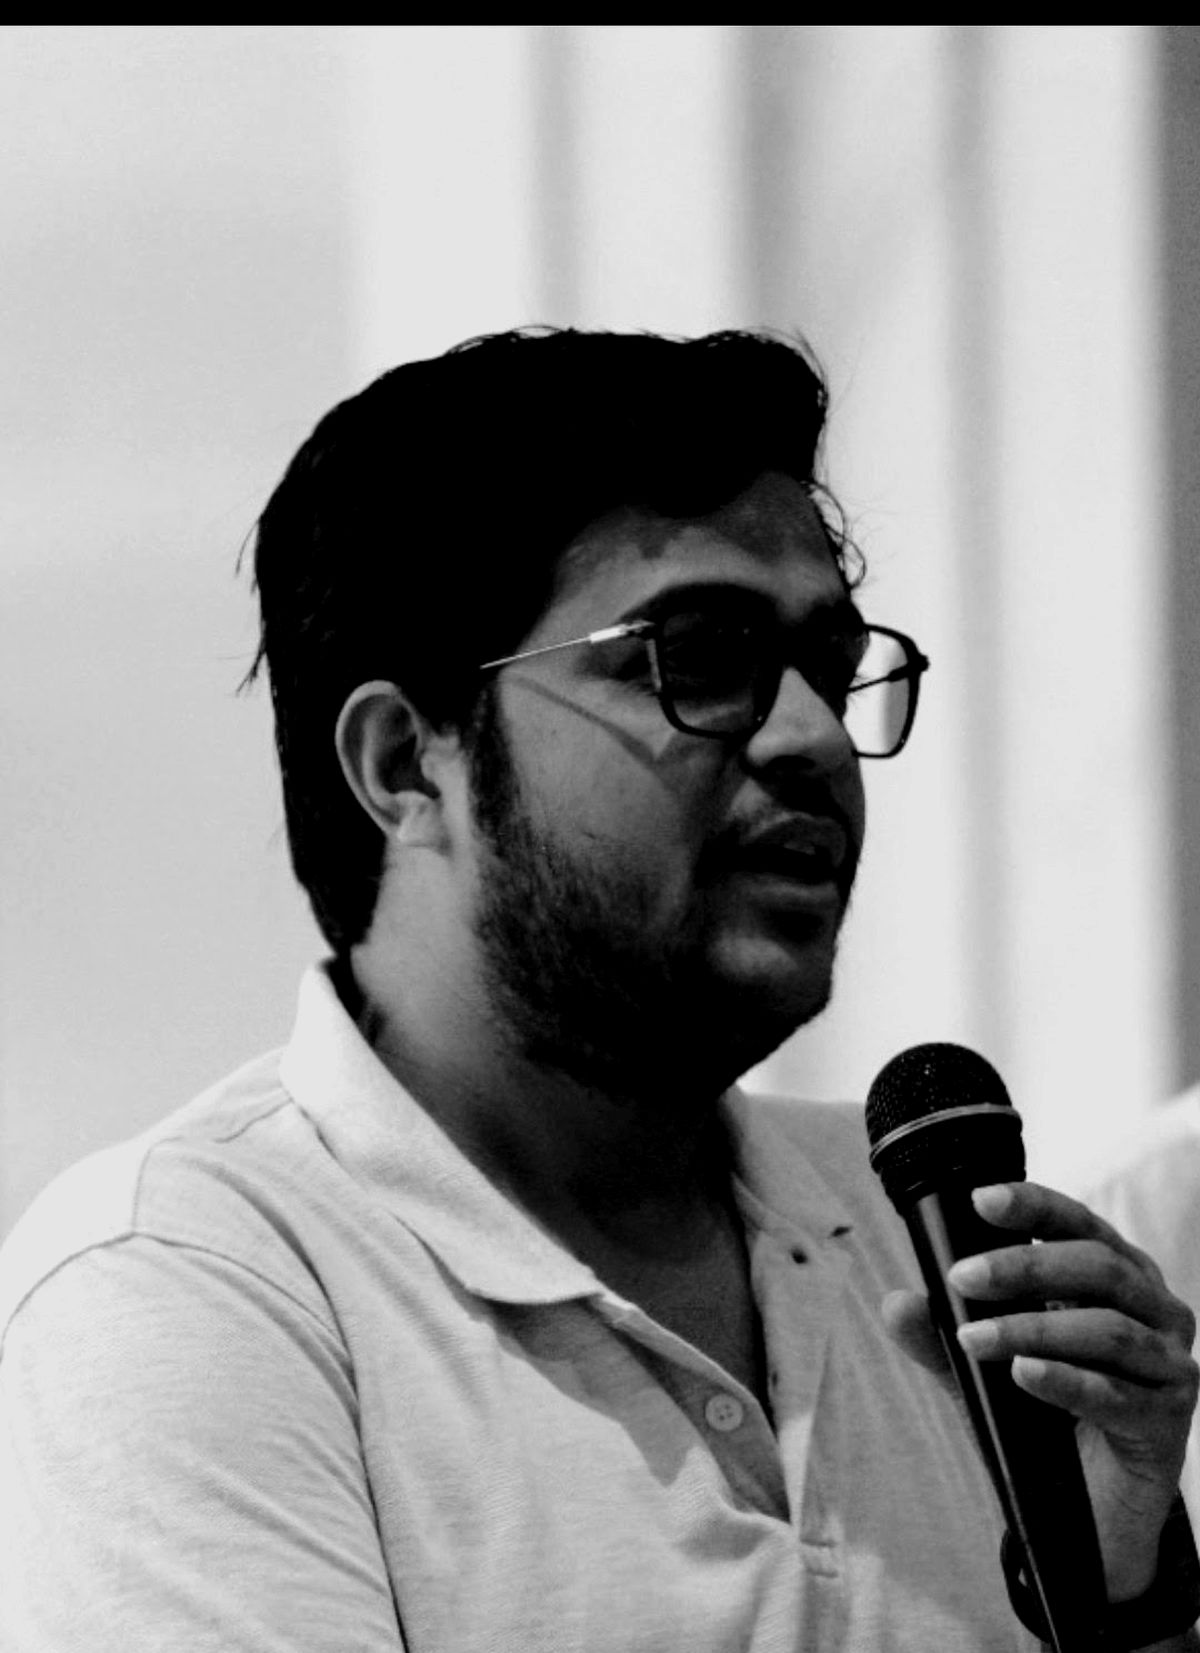
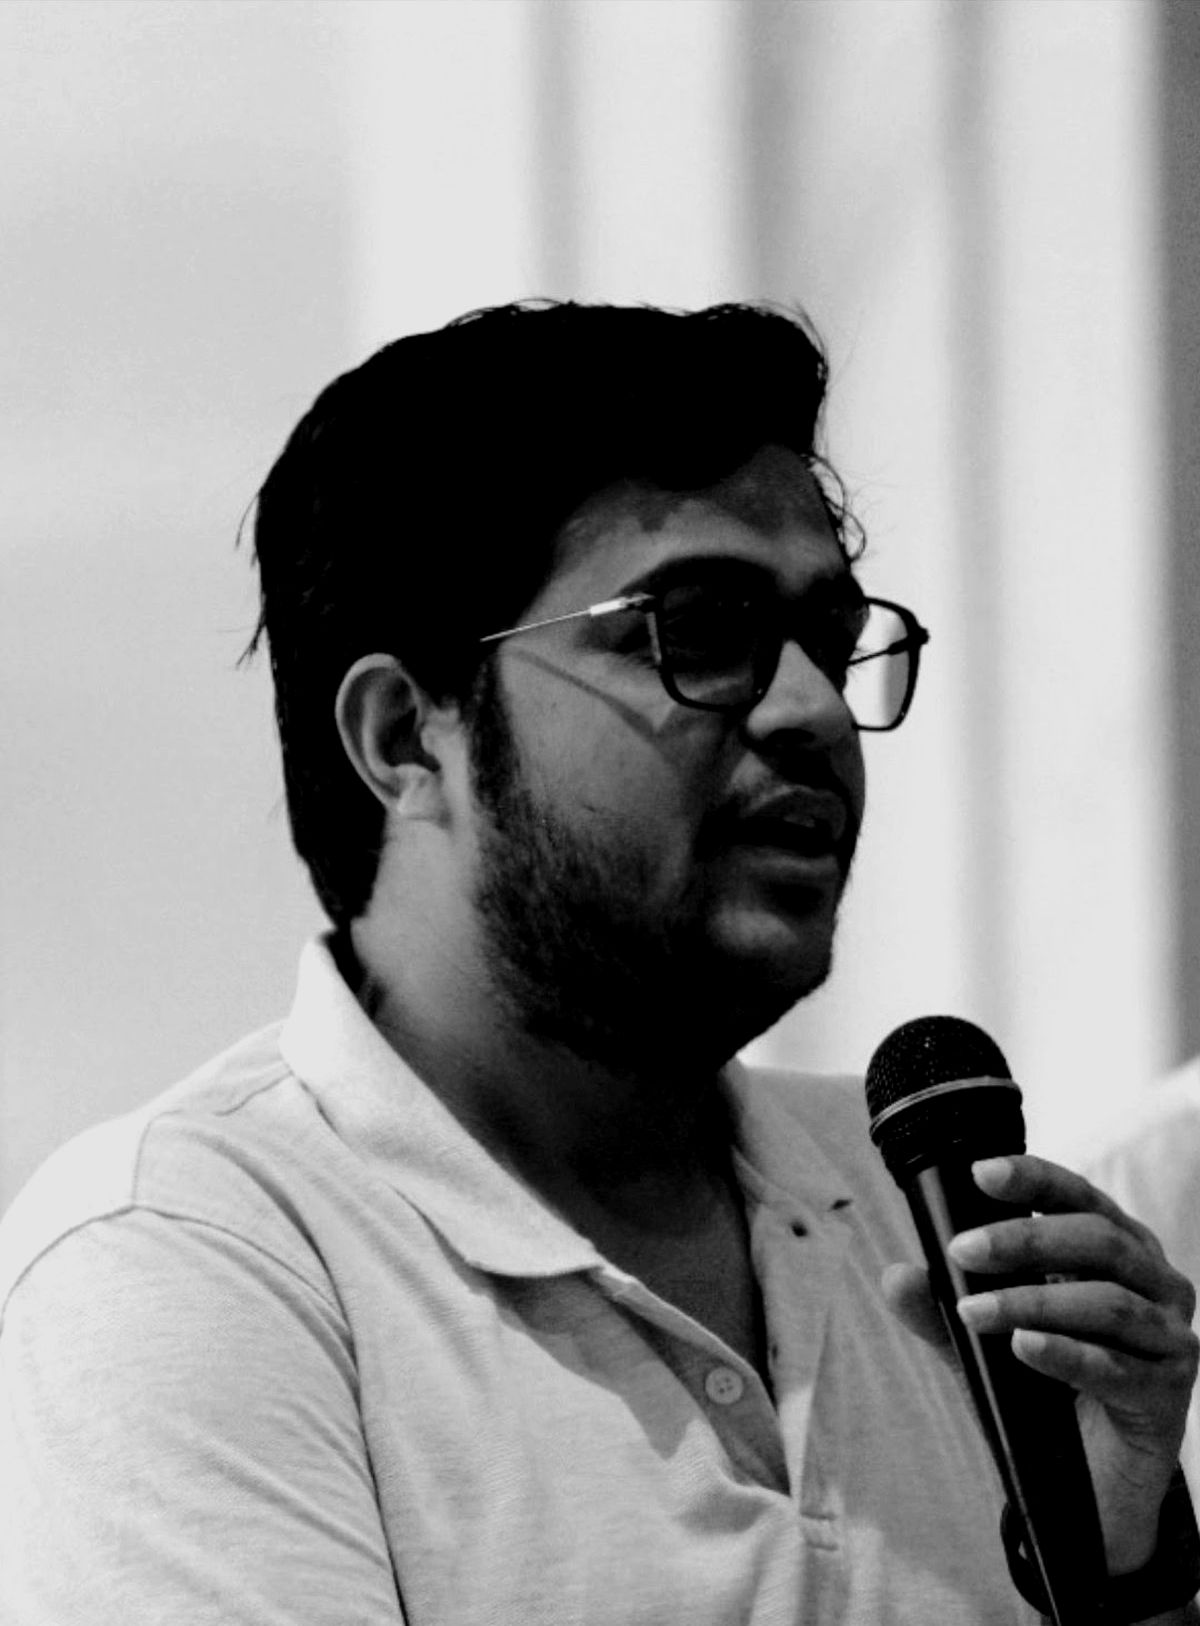
Home: replace portrait cutout with framed mic photo
The arms-crossed portrait was already a cutout with a sticker outline,
so its edge detail cannot be recovered. The hero now uses the uncut
mic photo in a frame; the 'Not just dashboards' section goes text-only
so no photo repeats. Trimmed a black strip from the top of the mic photo.

Claude-Session: https://claude.ai/code/session_01JK8vuUHDPjYX2NRTbdz8qZ

diff --git a/assets/css/studio.css b/assets/css/studio.css
@@ -203,24 +203,20 @@ ul { margin: 0; padding: 0; list-style: none; }
   background: var(--accent); vertical-align: 1px;
 }
 .hero h1 { display: contents; }
-.hero-line2 {
-  grid-column: 1 / span 7; grid-row: 4;
-  position: relative; z-index: 3;
-  font-size: clamp(40px, 5.6vw, 84px);
-  margin-bottom: clamp(20px, 3vh, 32px);
-}
 .hero-word {
-  grid-column: 1 / -1; grid-row: 2;
-  align-self: end;
-  font-size: min(17vw, 246px);
-  margin: clamp(16px, 3vh, 40px) 0 clamp(8px, 1.4vh, 16px) -0.04em;
-  position: relative; z-index: 1;
+  grid-column: 1 / span 8; grid-row: 3;
+  font-size: min(11.2vw, 162px);
+  margin: 0 0 clamp(4px, 1vh, 12px) -0.04em;
   white-space: nowrap;
 }
+.hero-line2 {
+  grid-column: 1 / span 8; grid-row: 4;
+  font-size: clamp(40px, 5.2vw, 76px);
+  margin-bottom: clamp(24px, 4vh, 44px);
+}
 .hero-rest {
-  grid-column: 1 / span 6; grid-row: 5;
-  position: relative; z-index: 3;
-  padding-bottom: clamp(32px, 6vh, 72px);
+  grid-column: 1 / span 7; grid-row: 5;
+  padding-bottom: clamp(32px, 6vh, 64px);
 }
 .hero-rest .sub {
   max-width: 34em;
@@ -232,33 +228,32 @@ ul { margin: 0; padding: 0; list-style: none; }
 .hero-works span { color: var(--fg); }
 .hero-ctas { display: flex; align-items: center; gap: 28px; flex-wrap: wrap; margin-top: clamp(24px, 4vh, 40px); }
 
-.hero-portrait {
-  position: absolute; z-index: 2;
-  right: calc(var(--gutter) * -0.5);
-  bottom: 0;
-  width: min(40vw, 620px);
-  pointer-events: none;
+.hero-photo {
+  grid-column: 9 / -1; grid-row: 2 / 6;
+  position: relative;
+  margin: clamp(24px, 4vh, 48px) 0 clamp(32px, 6vh, 64px);
+  min-height: 420px;
+  overflow: hidden;
 }
-.hero-portrait img { width: 100%; }
-.hero-portrait::after {
-  /* fade the crop line into the page */
-  content: ""; position: absolute; inset: auto 0 0 0; height: 22%;
-  background: linear-gradient(to bottom, rgba(14,14,14,0), var(--bg));
+.hero-photo img {
+  position: absolute; inset: 0;
+  width: 100%; height: 100%;
+  object-fit: cover; object-position: 46% 30%;
 }
 
 @media (max-width: 960px) {
   .hero .wrap { display: flex; flex-direction: column; min-height: 0; }
-  .hero-word { font-size: 16.4vw; margin-top: 28px; }
-  .hero-portrait {
-    position: relative; right: auto; bottom: auto;
-    width: 108%; margin: -9vw 0 0 auto; align-self: flex-end;
+  .hero-word { font-size: 16.4vw; margin-top: 36px; }
+  .hero-line2 { font-size: 10.6vw; }
+  .hero-photo {
+    order: 3; min-height: 0;
+    aspect-ratio: 1 / 1;
+    margin: 4px calc(var(--gutter) * -1) 28px;
   }
   .hero-meta { order: 1; }
   .hero-word { order: 2; }
-  .hero-portrait { order: 3; }
-  .hero-line2 { order: 4; font-size: 12vw; margin-top: -16vw; }
-  .hero-rest { order: 5; }
-  .hero-rest { padding-bottom: 72px; }
+  .hero-line2 { order: 4; }
+  .hero-rest { order: 5; padding-bottom: 72px; }
 }
 
 /* entrance */
@@ -271,8 +266,8 @@ ul { margin: 0; padding: 0; list-style: none; }
 .js .hero-word .mask { display: block; overflow: hidden; padding-bottom: .04em; }
 .js .hero-word .mask > span { display: block; transform: translateY(105%); }
 .js .hero.is-in .hero-word .mask > span { transform: none; transition: transform 1.2s var(--ease); }
-.js .hero-portrait { opacity: 0; transform: translateY(40px); }
-.js .hero.is-in .hero-portrait { opacity: 1; transform: none; transition: opacity 1.2s var(--ease) .25s, transform 1.4s var(--ease) .25s; }
+.js .hero-photo img { opacity: 0; transform: scale(1.06); }
+.js .hero.is-in .hero-photo img { opacity: 1; transform: none; transition: opacity 1.2s var(--ease) .2s, transform 1.8s var(--ease) .2s; }
 
 /* ---------- sections ---------- */
 .section { padding: var(--section) 0; position: relative; }
@@ -448,24 +443,19 @@ ul { margin: 0; padding: 0; list-style: none; }
 @media (max-width: 760px) { .logos li { width: calc(100% / 4); } }
 @media (max-width: 480px) { .logos li { width: calc(100% / 4); height: 84px; padding: 0 8px; } }
 
-/* stage */
+/* stage (text only) */
 .stage {
-  display: grid; grid-template-columns: repeat(12, 1fr); column-gap: 24px; row-gap: 48px;
-  align-items: center;
+  display: grid; grid-template-columns: repeat(12, 1fr); column-gap: 24px; row-gap: 32px;
+  align-items: end;
 }
-.stage-text { grid-column: 1 / span 5; }
-.stage-text .h-section { margin-bottom: 32px; }
-.stage-text p { color: var(--muted); max-width: 30em; }
-.beats { display: flex; gap: 28px; margin-top: 32px; font-weight: 600; }
+.stage .h-section { grid-column: 1 / span 6; }
+.stage-body { grid-column: 8 / -1; }
+.stage-body p { color: var(--muted); max-width: 32em; }
+.beats { display: flex; gap: 28px; margin-top: 28px; font-weight: 600; }
 .beats li { display: flex; align-items: center; gap: 10px; }
 .beats li::before { content: ""; width: 8px; height: 8px; background: var(--accent); }
-.stage figure { grid-column: 7 / -1; margin-right: calc(var(--gutter) * -1); }
-.stage figure img { width: 100%; aspect-ratio: 4 / 5; object-fit: cover; object-position: 50% 30%; }
-.stage .figcap { padding-left: 0; }
 @media (max-width: 960px) {
-  .stage-text, .stage figure { grid-column: 1 / -1; }
-  .stage figure { order: -1; margin-left: calc(var(--gutter) * -1); }
-  .stage .figcap { padding-left: var(--gutter); }
+  .stage .h-section, .stage-body { grid-column: 1 / -1; }
 }
 
 /* writing */
@@ -560,5 +550,5 @@ ul { margin: 0; padding: 0; list-style: none; }
 /* ---------- reduced motion ---------- */
 @media (prefers-reduced-motion: reduce) {
   *, *::before, *::after { transition-duration: 0s !important; animation-duration: 0s !important; }
-  .js .rise, .js .hero-word .mask > span, .js .hero-portrait { opacity: 1 !important; transform: none !important; }
+  .js .rise, .js .hero-word .mask > span, .js .hero-photo img { opacity: 1 !important; transform: none !important; }
 }

diff --git a/index.html b/index.html
@@ -23,7 +23,7 @@
   <meta name="theme-color" content="#0e0e0e" />
   <link rel="preload" href="/assets/fonts/archivo-latin.woff2" as="font" type="font/woff2" crossorigin />
   <link rel="preload" href="/assets/fonts/geist-latin.woff2" as="font" type="font/woff2" crossorigin />
-  <link rel="preload" as="image" type="image/webp" imagesrcset="/assets/img/portrait/saurabh-cut-720.webp 720w, /assets/img/portrait/saurabh-cut-1200.webp 1200w" imagesizes="(max-width: 960px) 100vw, 48vw" />
+  <link rel="preload" as="image" imagesrcset="/assets/img/portrait/mic-bw-600.jpg 600w, /assets/img/portrait/mic-bw-1200.jpg 1200w" imagesizes="(max-width: 960px) 100vw, 32vw" />
   <link rel="stylesheet" href="/assets/css/studio.css" />
   <script>document.documentElement.classList.add('js')</script>
   <script type="application/ld+json">{"@context": "https://schema.org", "@graph": [{"@type": "Person", "@id": "https://saurabhtripathi.in/#person", "name": "Saurabh Tripathi", "url": "https://saurabhtripathi.in/", "jobTitle": "Founder & CEO", "worksFor": {"@id": "https://opusmomentum.com/#organization"}, "image": "https://saurabhtripathi.in/assets/img/portrait/saurabh-1200.jpg", "address": {"@type": "PostalAddress", "addressLocality": "Bhopal", "addressRegion": "Madhya Pradesh", "addressCountry": "IN"}, "knowsAbout": ["Digital marketing", "SEO", "Generative engine optimization", "Performance marketing", "Social media marketing", "Website design and development", "Branding"], "sameAs": ["https://www.linkedin.com/in/saurabhtripathionline/", "https://www.linkedin.com/newsletters/building-momentum-7291532655647436800/"]}, {"@type": "Organization", "@id": "https://opusmomentum.com/#organization", "name": "Opus Momentum", "legalName": "Opus Momentum Digital LLP", "url": "https://opusmomentum.com/", "founder": {"@id": "https://saurabhtripathi.in/#person"}}, {"@type": "WebSite", "@id": "https://saurabhtripathi.in/#website", "url": "https://saurabhtripathi.in/", "name": "Saurabh Tripathi", "publisher": {"@id": "https://saurabhtripathi.in/#person"}}]}</script>
@@ -90,11 +90,11 @@
             <a class="link-arrow" href="/work.html">See the work <svg class="icon" aria-hidden="true"><use href="#i-arrow-ur"/></svg></a>
           </div>
         </div>
-        <figure class="hero-portrait">
-          <img src="/assets/img/portrait/saurabh-cut-1200.webp"
-               srcset="/assets/img/portrait/saurabh-cut-720.webp 720w, /assets/img/portrait/saurabh-cut-1200.webp 1200w"
-               sizes="(max-width: 960px) 100vw, 48vw"
-               width="1200" height="1046" alt="Portrait of Saurabh Tripathi" fetchpriority="high" />
+        <figure class="hero-photo">
+          <img src="/assets/img/portrait/mic-bw-1200.jpg"
+               srcset="/assets/img/portrait/mic-bw-600.jpg 600w, /assets/img/portrait/mic-bw-1200.jpg 1200w"
+               sizes="(max-width: 960px) 100vw, 32vw"
+               width="1200" height="1626" alt="Saurabh speaking at an event" fetchpriority="high" />
         </figure>
       </div>
     </section>
@@ -312,8 +312,8 @@
     <!-- Outside the laptop -->
     <section class="section" aria-labelledby="stage-h">
       <div class="wrap stage" data-reveal>
-        <div class="stage-text">
-          <h2 id="stage-h" class="h-section rise">Not just dashboards<span class="dot-accent">.</span></h2>
+        <h2 id="stage-h" class="h-section rise">Not just dashboards<span class="dot-accent">.</span></h2>
+        <div class="stage-body">
           <p class="rise">Saurabh speaks at industry events, writes on LinkedIn, and shows up for the occasional government seminar. Between client work, he is reading science fiction, following Formula 1, or pushing pixels for Opus Momentum's own brand.</p>
           <ul class="beats rise">
             <li>Speaks</li>
@@ -321,13 +321,6 @@
             <li>Travels</li>
           </ul>
         </div>
-        <figure class="rise">
-          <img src="/assets/img/portrait/mic-bw-1200.jpg"
-               srcset="/assets/img/portrait/mic-bw-600.jpg 600w, /assets/img/portrait/mic-bw-1200.jpg 1200w"
-               sizes="(max-width: 960px) 100vw, 50vw"
-               width="1200" height="1653" loading="lazy" alt="Saurabh speaking at an event" />
-          <figcaption class="figcap">On stage</figcaption>
-        </figure>
       </div>
     </section>
 
